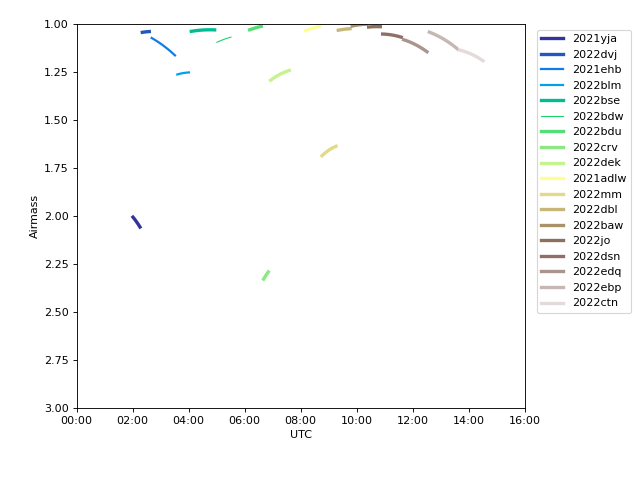
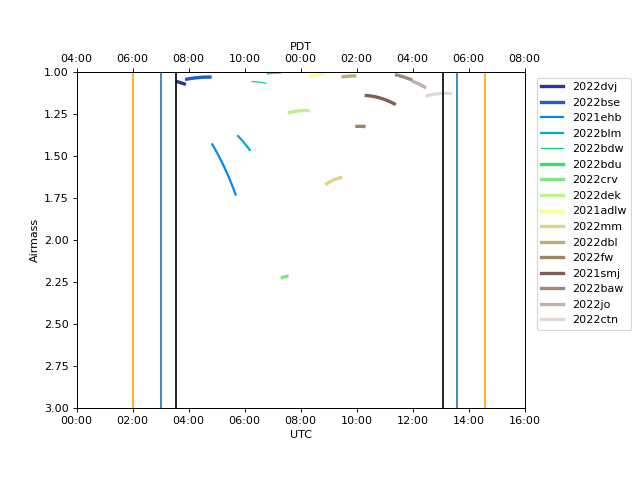
fixed plotting

diff --git a/make_schedule.py b/make_schedule.py
@@ -6,6 +6,7 @@ from astropy.time import Time,TimeDelta
 from astropy.coordinates import SkyCoord, EarthLocation, AltAz
 from astropy.coordinates import get_sun
 from scipy.interpolate import interp1d
+from matplotlib import cm
 import argparse
 
 
@@ -63,7 +64,7 @@ def main():
     etwi18, mtwi18 = times[1:][alt18]
 
     #Making a minutes timeframe for the night
-    dt = sunrise - sunset
+    dt = mtwi12 - etwi12
     dt.format = 'sec'
     mins = round(dt.value/60)
     times = sunset + dt * np.linspace(0., 1., mins)
@@ -122,7 +123,8 @@ def main():
     target_list = []
 
     sched = pd.DataFrame(columns=["target","RA","DEC","start","end","mag","priority"])
-    def fill_sched(sched,df,start,end):
+
+    def fill_sched(schedu,df,start,end):
         entry = pd.DataFrame.from_dict({
             "target": [df["name"]],
             "RA":  ["%s:%s:%s"%(df["ra_h"],df["ra_m"],df["ra_s"])],
@@ -133,59 +135,70 @@ def main():
             "priority":[df["priority"]]
         })
 
-        sched = pd.concat([sched, entry], ignore_index=True)
-        return sched
-    priorities = list(set(df["priority"]))
-    while current_time < times[-1]:
-        skipped_all=True
-        for priority in priorities:
-            df_group = df[df["priority"] == priority]
-            for i,target in df_group.iterrows():
-                if i in target_list:
-                    continue
-                boundtime = min(args.min, args.min**(1+x)*(target["exp_time"].sec/60)**(-x)) + target["exp_time"].sec/60/2
-                boundtime = boundtime*u.min
-                print(boundtime)
-                if is_setting(current_time,target["top_time"]):
-                    if is_observable(current_time,target["exp_time"],target["set_time"]):
+        schedu = pd.concat([schedu, entry], ignore_index=True)
+        return schedu
+
+    def schedule(current_time,stop_time,df,target_list,schedu):
+        priorities = list(set(df["priority"]))
+        while current_time < stop_time:
+            skipped_all=True
+            for priority in priorities:
+                df_group = df[df["priority"] == priority]
+                for i,target in df_group.iterrows():
+                    if i in target_list:
+                        continue
+                    boundtime = min(args.min, args.min**(1+x)*(target["exp_time"].sec/60)**(-x)) + target["exp_time"].sec/60/2
+                    boundtime = boundtime*u.min
+                    if is_setting(current_time,target["top_time"]):
+                        if is_observable(current_time,target["exp_time"],target["set_time"]):
+                            start = current_time
+                            current_time = current_time + target["exp_time"]
+                            end = current_time
+                            schedu = fill_sched(schedu,target,start,end)
+                            target_list.append(i)
+                            skipped_all = False
+                            current_time = current_time +dt
+                            continue
+                        else:
+                            continue
+                    elif current_time + boundtime > target["top_time"]:
                         start = current_time
                         current_time = current_time + target["exp_time"]
                         end = current_time
-                        sched = fill_sched(sched,target,start,end)
+                        #import pdb
+                        #pdb.set_trace()
+                        schedu = fill_sched(schedu,target,start,end)
                         target_list.append(i)
-                        skipped_all = False
+                        skipped_all=False
                         current_time = current_time +dt
                         continue
-                    else:
-                        continue
-                elif current_time + boundtime > target["top_time"]:
-                    start = current_time
-                    current_time = current_time + target["exp_time"]
-                    end = current_time
-                    sched = fill_sched(sched,target,start,end)
-                    target_list.append(i)
-                    skipped_all=False
-                    current_time = current_time +dt
-                    continue
-        if skipped_all:
-            current_time = current_time + dt
+            if skipped_all:
+                current_time = current_time + dt
+        return current_time,target_list,schedu
+
+    twitar = df[df["exp_time"]>700]
+    current_time, target_list,sched = schedule(current_time,etwi18,twitar,target_list,sched)
+    current_time, target_list,sched = schedule(current_time,times[-1],df,target_list,sched)
+    current_time, target_list,sched = schedule(current_time,mtwi18,twitar,target_list,sched)
+    print(sched)
 
     def gethour(time):
         PDT = (time - 8*u.hour).ymdhms
         PDT = "%02d:%02d"%(PDT[3],PDT[4])
         UTC = time.ymdhms
+        utchour = float(UTC[3])+float(UTC[4])/60
         UTC = "%02d:%02d"%(UTC[3],UTC[4])
-        return PDT,UTC
+        return PDT,UTC, utchour
 
     filename = args.targetlist.split(".")[0]
     with open(filename+"_Sched.csv", 'w') as f:
         f.write("Object,PDT,UTC,PDT End,UTC End,Ra,Dec,Exposure Time(s),Mag\n")
-        sunsetPDT,sunsetUTC = gethour(sunset)
-        sunrisePDT,sunriseUTC = gethour(sunrise)
-        mtwi12PDT, mtwi12UTC = gethour(mtwi12)
-        etwi12PDT, etwi12UTC = gethour(etwi12)
-        mtwi18PDT, mtwi18UTC = gethour(mtwi12)
-        etwi18PDT, etwi18UTC = gethour(etwi12)
+        sunsetPDT,sunsetUTC,sunsethour = gethour(sunset)
+        sunrisePDT,sunriseUTC,sunrisehour = gethour(sunrise)
+        mtwi12PDT, mtwi12UTC,mtw12hour = gethour(mtwi12)
+        etwi12PDT, etwi12UTC,etw12hour = gethour(etwi12)
+        mtwi18PDT, mtwi18UTC,mtw18hour = gethour(mtwi18)
+        etwi18PDT, etwi18UTC,etw18hour = gethour(etwi18)
         f.write("Sunset,%s,%s\n"%(sunsetPDT,sunsetUTC))
         f.write("12 deg,%s,%s\n"%(etwi12PDT, etwi12UTC))
         f.write("18 deg,%s,%s\n"%(etwi18PDT, etwi18UTC))
@@ -194,16 +207,13 @@ def main():
         f.write("Sunrise,%s,%s\n"%(sunrisePDT,sunriseUTC))
         f.write("\n")
         for _,target in sched.iterrows():
-            PDT, UTC = gethour(target['start'])
-            PDT_END, UTC_END = gethour(target['end'])
+            PDT, UTC,_ = gethour(target['start'])
+            PDT_END, UTC_END,_ = gethour(target['end'])
             exp = round((target['end']- target['start']).sec)
             f.write("%s,%s,%s,%s,%s,%s,%s,%s,%s\n"%(target['target'],PDT,UTC,PDT_END,UTC_END,target['RA'],target['DEC'],exp,target['mag']))
 
     fig = plt.figure(figsize=(8, 6), dpi=80)
-    ax = fig.add_axes([0.12,0.15,0.7,0.8])
-    #ax.(right=0.2)
-    color_priorities = ['Reds','Blues','Greens']
-    from matplotlib import cm
+    ax = fig.add_axes([0.12,0.15,0.7,0.7])
     for i,target in sched.iterrows():
         dt = target["end"] - target["start"]
         times = target["start"] + dt * np.linspace(0., 1., 100)-8
@@ -214,21 +224,23 @@ def main():
         plottime = np.array([tt[3]+tt[4]/60.+tt[5]/60./60. for tt in times.to_value("ymdhms")])*u.hour
         cmap = cm.get_cmap('terrain')
         ax.plot(plottime, targetaltazs.secz,label=target["target"],color = cmap(i/len(sched)),linewidth=4-target['priority'])
-    #start,finish = np.array([tt[3]+tt[4]/60.+tt[5]/60./60. for tt in Time(ax.get_xlim(),format="jd").ymdhms])*u.hour
-    #print(Time(ax.get_xlim(),format="jd").ymdhms)
-    #plottime = times - 8*u.hour
+    plt.axvline(x=sunsethour,color='orange')
+    plt.axvline(x=sunrisehour,color='orange')
+    plt.axvline(x=etw12hour)
+    plt.axvline(x=mtw12hour)
+    plt.axvline(x=etw18hour,color='black')
+    plt.axvline(x=mtw18hour,color='black')
     ax.set_xlabel("UTC")
     ax.set_xticks(ax.get_xticks())
     ax.set_xticklabels(["%02d:00"%x for x in ax.get_xticks()])
-    #axtop = ax.twiny()
-    #axtop.set_xticks(ax.get_xticks())
-    #axtop.set_xbound(ax.get_xbound())
-    #axtop.set_xticklabels(["%02d:00"%((x - 8)%12) for x in ax.get_xticks()])
-    #axtop.set_xlabel("UTC")
+    axtop = ax.twiny()
+    axtop.set_xticks(ax.get_xticks())
+    axtop.set_xbound(ax.get_xbound())
+    axtop.set_xticklabels(["%02d:00"%((x - 8)%12) for x in ax.get_xticks()])
+    axtop.set_xlabel("PDT")
     ax.legend(bbox_to_anchor =(1.25, 1.0))
     ax.set_ylim(3, 1)
     ax.set_ylabel('Airmass')
-    #fig.tight_layout()
     plt.savefig(filename+'_Sched.png')
     plt.show()
 
